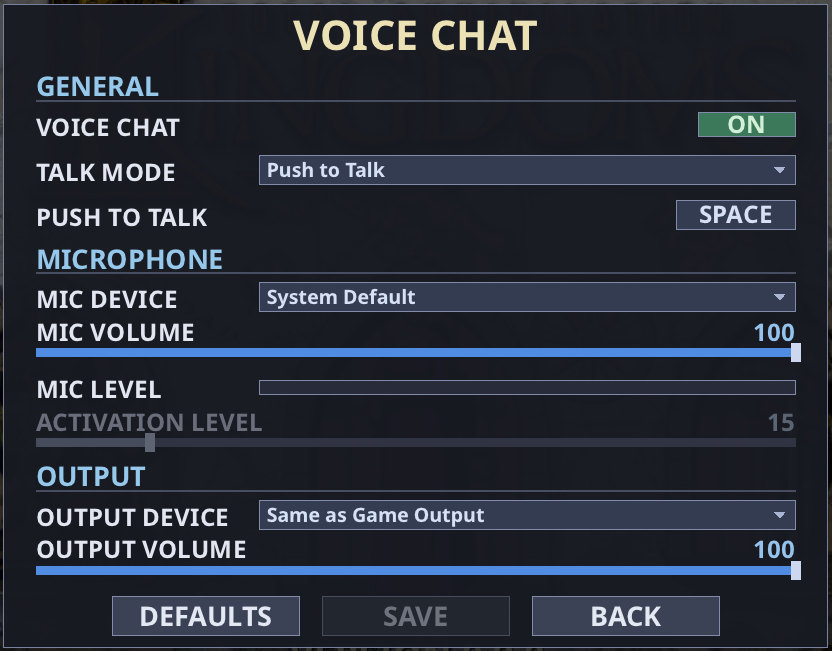
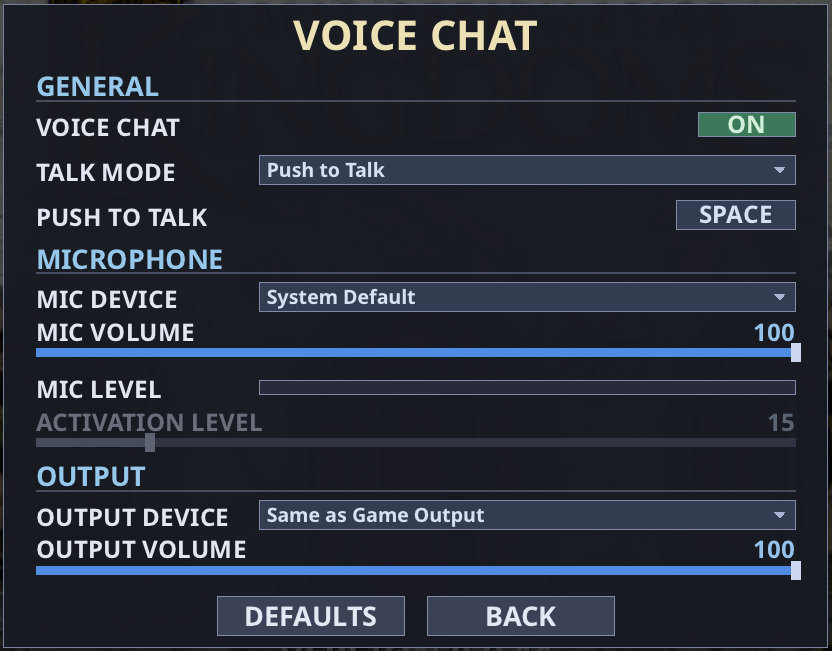
docs: retake Options and Voice Chat pictures without the SAVE button
guide/options-graphics.jpg and guide/voice-chat.jpg, captured as before
(0.9.1 capture-only hooks, same windows, profiles and crops); only the
footer differs: DEFAULTS and BACK.

Claude-Session: https://claude.ai/code/session_01UYTPK21mdyzXBEcWXE9ADp

Changed region(s): [[0.125, 0.8909, 0.875, 1.0]]

diff --git a/docs/img/README.md b/docs/img/README.md
@@ -1,6 +1,22 @@
 # README and user-guide screenshots
 
-**Retaken for 0.9.11** (2026-10-29): `title.jpg` only, by the 0.9.11 build (Debug
+**Retaken after 0.9.11** (2026-10-29): `guide/options-graphics.jpg` and
+`guide/voice-chat.jpg`, because the **SAVE** button is gone (Options, Voice Chat
+and Controls save every change as it is made): their footers now read
+**DEFAULTS** and **BACK** only, and nothing else in either picture differs.
+Captured by a Debug `-O2` build of the autosave branch with the 0.9.1
+capture-only hooks in the working tree (not committed; script `cap.sh` in
+`~/tak-tmp/scratch/autosave/`), offscreen video driver, scratch `HOME`,
+`XDG_DATA_HOME` and `XDG_CONFIG_HOME`, reading the 0.9.1 scratch install.
+`options-graphics.jpg`: `TAK_CAP_OPTIONS=10`, a 1600 x 1100 window, a fresh
+profile whose only setting is `fullscreen = 0`, cropped to 840 x 1024 at
+(380, 38). `voice-chat.jpg`: `TAK_CAP_VOICEPAGE=1`, a 1600 x 900 window, the
+0.9.1 capture profile with `voiceEnabled = 1`, cropped to the 832 x 651 panel
+at (384, 124). JPEG quality 86. No other picture shows a SAVE button of these
+screens (`guide/options-interface.jpg` is cropped above the footer, and no
+picture shows Controls), so no other picture was retaken and none was deleted.
+
+**Earlier: retaken for 0.9.11** (2026-10-29): `title.jpg` only, by the 0.9.11 build (Debug
 with `-O2`, CMake `VERSION 0.9.11` in the release commit), with the 0.9.1 title
 capture (`takclient menu --shot`, offscreen video driver, a 1920 x 1080 window,
 the 0.9.1 scratch install and settings, scratch `HOME`, `XDG_DATA_HOME` and
@@ -372,7 +388,7 @@ replace them. The unchanged views contain no version text.
 | `side-aramon.jpg` … `side-creon.jpg` | One per side, rendered by the 0.9.0 build. A local-server game with a **stress-test start** (250-unit cap, Normal AI opponent), about 10 s in, 1600 × 900, scaled. The player's Monarch is selected: Elsin, Lokken, Kirenna, Thirsha or the Sage. Each shows that side's interface and build menu |
 | `shift-queue.jpg` | From the 0.9.0 build. Elsin with a move and three Shift-queued moves (**scripted orders**), Shift held, about 3 s after the orders; the status reads MOVING. 1.7× zoom |
 | `flyers-retail-legion.jpg` | **Development scene, spawned.** From the 0.9.0 build (both halves). A spawned Zhon formation of ground units and flyers (`TAK_CAP_SCENE`) given one formation move order, 22 s in, run once in Retail (flyers far ahead) and once in Legion (flyers over the leading ground units). The same 1.05× camera is used for both, and the two captures are placed side by side with labels |
-| `options-graphics.jpg` | 0.9.11 build before its release commit (0.9.1 layout). Options screen in a 1600 × 1100 window, scrolled so that Display and the whole Graphics section show (the Display heading just cut off above, the Interface heading just cut off below), cropped to the panel: Fullscreen (OFF), VSync (ON), Max FPS (60, greyed out because VSync is on), Native Wayland (Auto; new in 0.9.6, Linux only, retaken for it), Renderer (Auto (OpenGL): Auto, and the backend it started), Texture Filtering at EVERYTHING, Shadows, Smooth GUI Art, Smooth Movies, Trees Sway in Wind and Tactical Dots (ON), Tactical Dots Zoom (0%), Hidden Units at FADE and Fade Opacity at 50% (new in 0.9.10, retaken for them; retaken again for 0.9.11, whose default is 50%), Screen Shake (OFF), Hardware Cursor (ON, with the note OS CURSOR 16X25 beside it) and Smooth Motion (ON) and GPU Memory Limit at 1.25 GB (default). A fresh profile whose only setting is `fullscreen = 0`. The capture-only patch hands the cursor to the system before drawing, as the menu loop would, so the note shows. Linux build, so the Windows-only Ignore Windows Display Scaling row is absent |
+| `options-graphics.jpg` | Autosave branch after 0.9.11 (0.9.1 layout; the footer is DEFAULTS and BACK, no SAVE). Options screen in a 1600 × 1100 window, scrolled so that Display and the whole Graphics section show (the Display heading just cut off above, the Interface heading just cut off below), cropped to the panel: Fullscreen (OFF), VSync (ON), Max FPS (60, greyed out because VSync is on), Native Wayland (Auto; new in 0.9.6, Linux only, retaken for it), Renderer (Auto (OpenGL): Auto, and the backend it started), Texture Filtering at EVERYTHING, Shadows, Smooth GUI Art, Smooth Movies, Trees Sway in Wind and Tactical Dots (ON), Tactical Dots Zoom (0%), Hidden Units at FADE and Fade Opacity at 50% (new in 0.9.10, retaken for them; retaken again for 0.9.11, whose default is 50%), Screen Shake (OFF), Hardware Cursor (ON, with the note OS CURSOR 16X25 beside it) and Smooth Motion (ON) and GPU Memory Limit at 1.25 GB (default). A fresh profile whose only setting is `fullscreen = 0`. The capture-only patch hands the cursor to the system before drawing, as the menu loop would, so the note shows. Linux build, so the Windows-only Ignore Windows Display Scaling row is absent |
 | `fire-on-the-move.jpg` | **From the 0.9.0 build. Development scene, two-player spawned.** Ulasem Arena, Retail pathfinding, 14 s after one plain move order east (**scripted orders**). 14 Aramon Archers and 2 Mage Builders were spawned in a 4-wide grid; 6 Taros Zombies and 6 Skeleton Archers (enemy, no AI) stand south of their path. Shift is held, so the move line shows. Zombies have reached the back of the column, which keeps walking and shooting; the flashes are hits, and three of the sixteen have fallen, so the information bar shows two portraits (2 Mage Builders, 11 Archers) and 13 SELECTED. 1.4× zoom, fog off |
 | `cartographer-terrain.jpg` | Cartographer Terrain tab on Ulasem Arena (`--shot --shot-tool terrain`, fresh editor profile, 921 × 691), retaken by the 0.9.0 build (byte-identical to the 0.8.3 picture): the grouped section browser, All sections (555 pieces, 1261 sections), with readable piece names, variant badges and the scrollbar, and five tools on the toolbar |
 | `tactical-dots.jpg` | From the 0.9.0 build. **Benchmark** run (Absurd) on Ulasem Arena, 50 game seconds in, spectator view fully zoomed out (zoom 0.1875, the floor for this map in a 1920 × 1080 window), where the default Tactical Dots Zoom of 0% shows dots. The deterministic run was rendered twice at the same tick and camera, with Tactical Dots off and on in otherwise identical profiles. The same 800 × 900 region (the east of the map: the blue and red armies) is cropped from each at 1:1 and placed side by side under labels. With models, fire and spell effects show among the armies; with dots none are drawn |
@@ -380,7 +396,7 @@ replace them. The unchanged views contain no version text.
 | `replay.jpg` | Replay playback of a recorded local-server game, 9 s of 16 s, with the time bar. **Stress-test start**: an Aramon army given one Legion move order (**scripted orders**). Recorded and played back by the 0.9.0 build |
 | `benchmark.jpg` | From the 0.9.0 build. Benchmark run (Absurd), 55 s in; the BENCHMARKING badge counts down the remaining time (0:05 of 60 s): armies meet at the edge of a sandy clearing, with health bars for every side; scaled from 1920 × 1080 |
 | `scorecard.jpg` | From the 0.9.0 build. F4 scorecard over a benchmark battle (Absurd), 55 s in, at 1.1× zoom: eight AI players with kills, losses and score; captured at 1920 × 1080 (so the BENCHMARKING badge clears the Score column) and scaled |
-| `voice-chat.jpg` | Recaptured by the 0.9.0 build. The Voice Chat page opened from the menu (capture-only patch), 1600 × 900, cropped to the panel. The capture profile with `voiceEnabled = 1`; every other voice setting is at its default: TALK MODE PUSH TO TALK, PUSH TO TALK on SPACE, SYSTEM DEFAULT microphone at 100, ACTIVATION LEVEL 15 (greyed out under Push to Talk), SAME AS GAME OUTPUT at 100. No voice engine runs under `--shot`, so MIC LEVEL is empty |
+| `voice-chat.jpg` | Recaptured by the autosave branch after 0.9.11 (footer DEFAULTS and BACK, no SAVE; 0.9.0 before). The Voice Chat page opened from the menu (capture-only patch), 1600 × 900, cropped to the panel. The capture profile with `voiceEnabled = 1`; every other voice setting is at its default: TALK MODE PUSH TO TALK, PUSH TO TALK on SPACE, SYSTEM DEFAULT microphone at 100, ACTIVATION LEVEL 15 (greyed out under Push to Talk), SAME AS GAME OUTPUT at 100. No voice engine runs under `--shot`, so MIC LEVEL is empty |
 | `random-map-lobby.jpg` | Single-player create screen with **Generate Random Map** clicked, then SIZE clicked once (12 × 12), PLAYERS twice (4) and the SCATTERED MANA slider set to HIGH (`TAK_SHOT_CLICKS`, see *Lobby captures*). The preview reads MANA: 57 and SCATTERED: 33 NEUTRAL. Captured live at 1600 × 1000 with `TAK_SHOT_SIZES` by the 0.9.0 build, cropped to 1500 × 900 (from x 100), not scaled. The seed is the lobby's own random one |
 | `chat-box.jpg` | Recaptured by the 0.9.0 build. The in-game chat box at its defaults (Chat Position Centered, Chat Scale 100%) sitting above the build row and its TRAINING Horseman (10) line, on Ulasem Arena, 1600 × 900, cropped to the box, the row and the information bar (1240 × 340, not scaled). **Selection still life** (`--testbuild`, `TAK_SELPORTRAITS=arakeep:1`): a Barracks selected, with a Horseman queue of ten started by the capture patch; the information bar's Horseman gauge follows the new unit's health. Four chat lines put into the box by the capture patch with fixed names (Ludwin, Aldric, Kirenna, Pat) in their player colours, and *on my way* being typed after SAY: |
 | `options-interface.jpg` | 0.9.0 build. Options screen in a 1600 × 1100 window scrolled to the Interface section, cropped to it (824 × 455): UI FONT MODERN, F4 SCORECARD SCALE and UI SCALE 100%, HEALTH BARS DAMAGED, STATS PANEL ON, BUILD MENU CENTER, BUILD MENU SCALE 100%, CHAT POSITION CENTERED and CHAT SCALE 100%; a fresh profile, all defaults |
